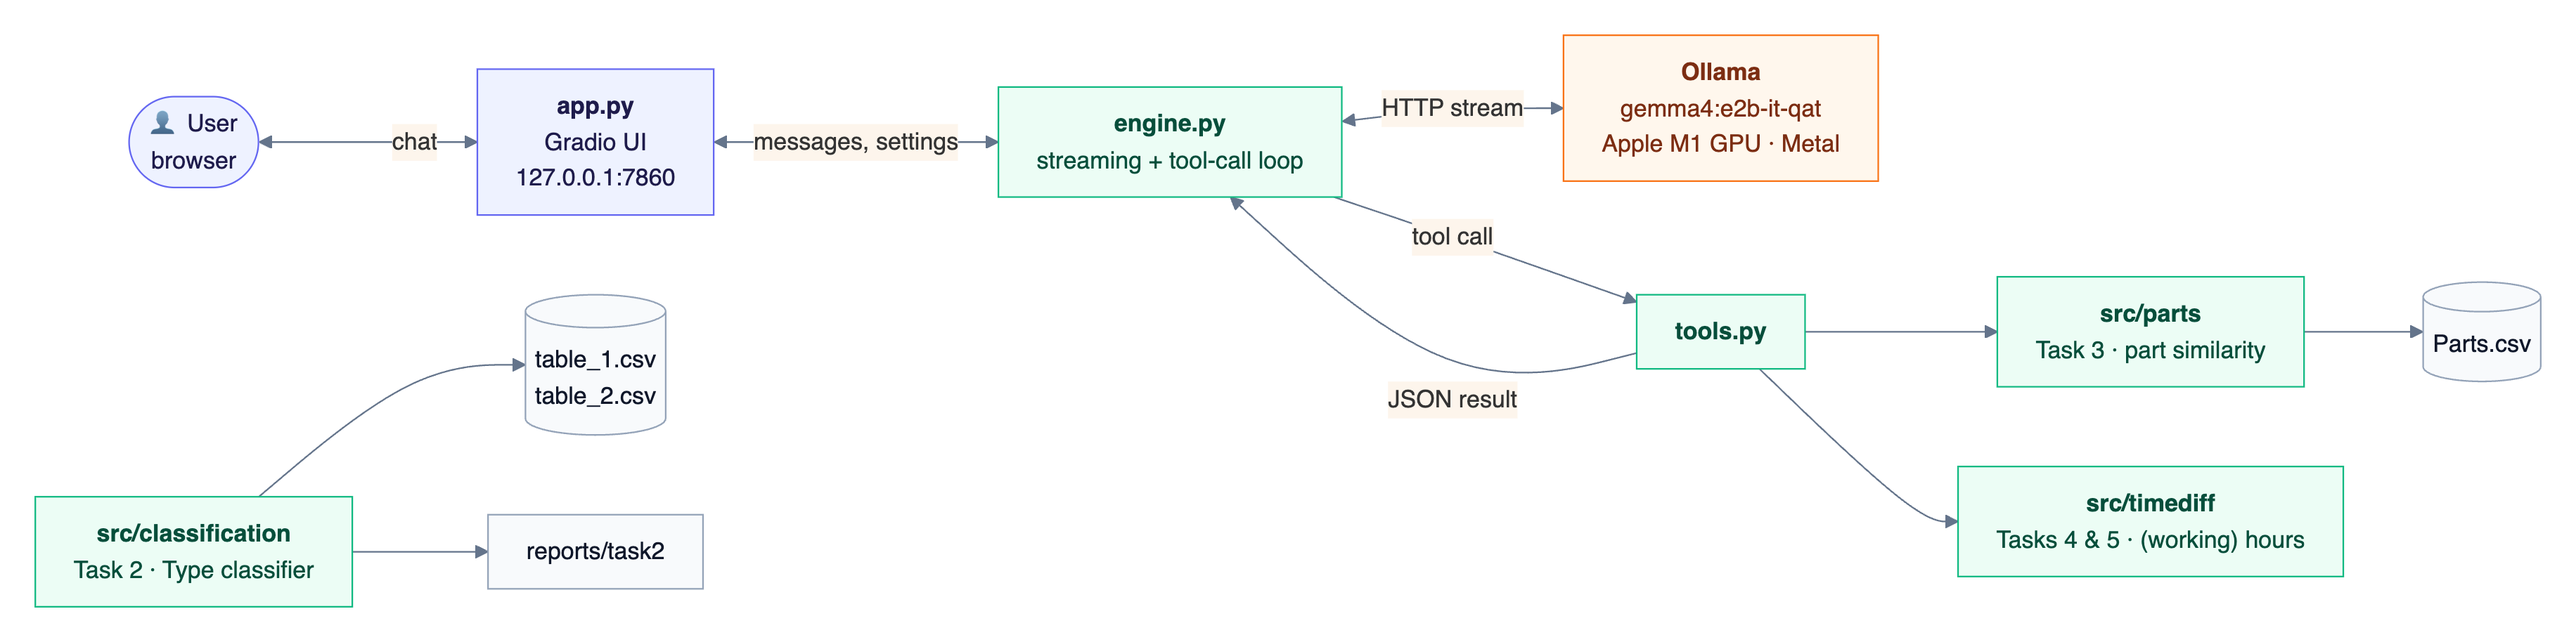
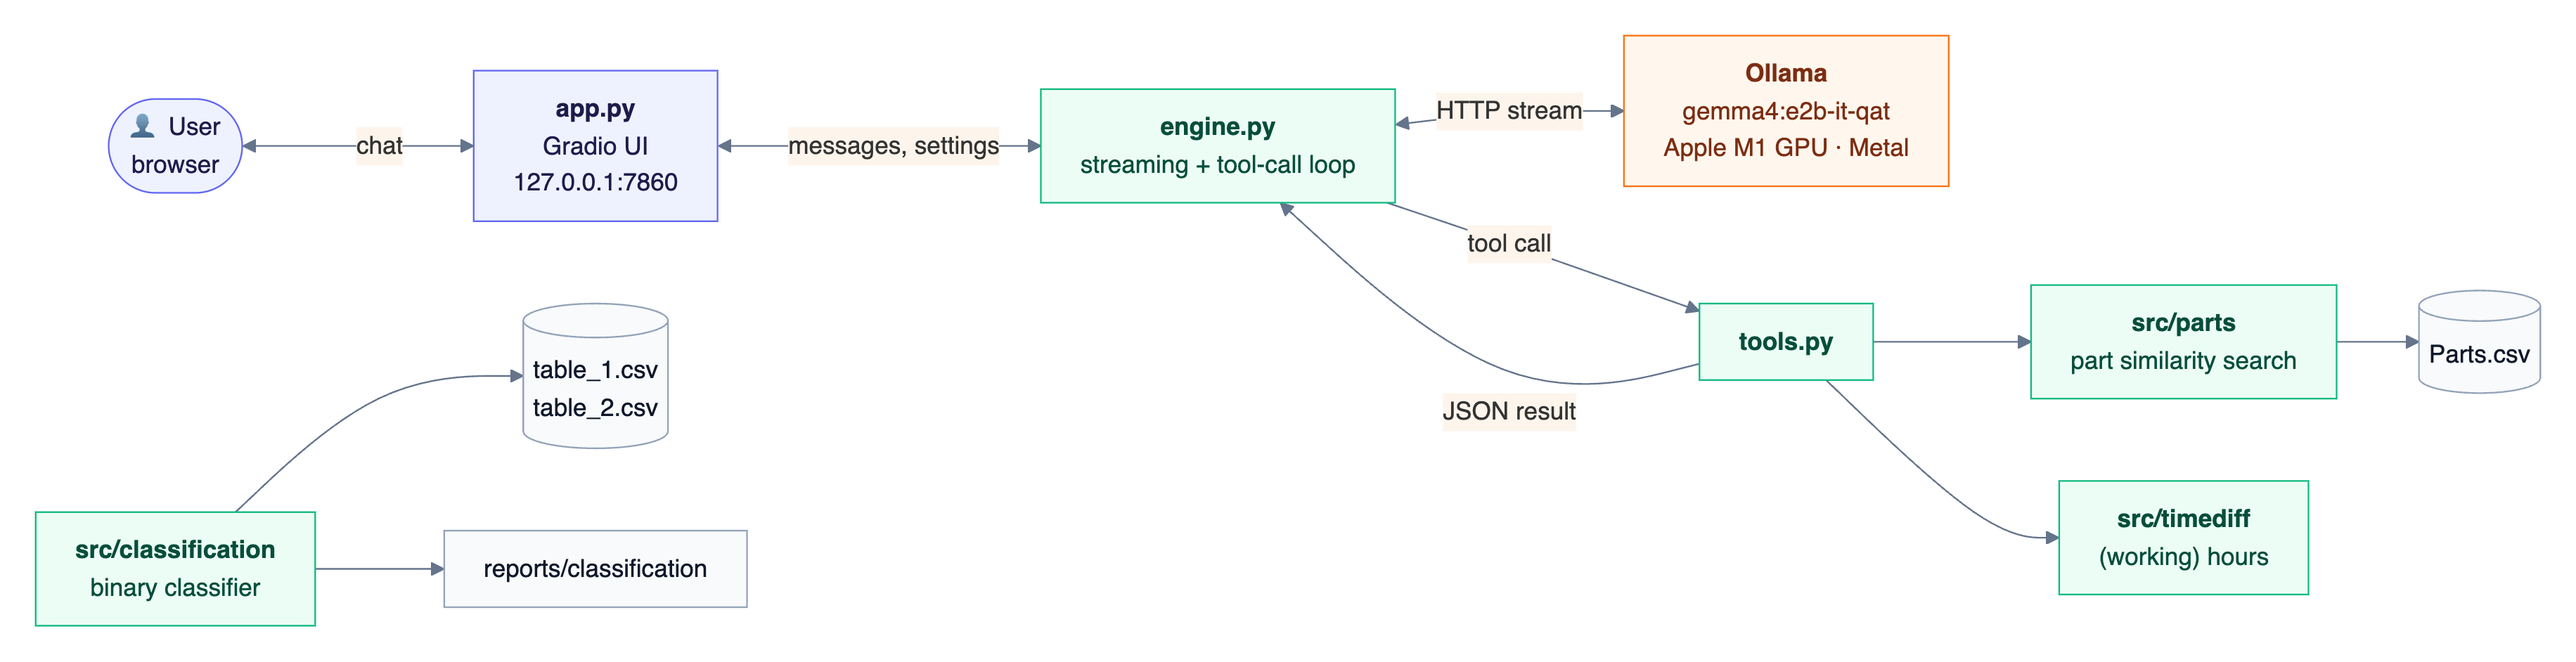
Generalize project: drop task numbering from code, docs and paths
- reports/task2 -> reports/classification, reports/task3 -> reports/parts
- diagrams renamed to classification-pipeline / parts-pipeline
- docs and README describe components instead of numbered tasks
- stop tracking task-description.txt (kept locally, ignored)

diff --git a/src/classification/train.py b/src/classification/train.py
@@ -1,7 +1,7 @@
-"""Train and evaluate classifiers for the "Type" column (Task 2).
+"""Train and evaluate classifiers for the "Type" column.
 
 Run:  python -m src.classification.train
-Writes metrics and figures to reports/task2/.
+Writes metrics and figures to reports/classification/.
 """
 
 from __future__ import annotations
@@ -36,7 +36,7 @@ from sklearn.preprocessing import OneHotEncoder, StandardScaler
 
 from .data import CATEGORICAL, NUMERIC, load_dataset
 
-OUT_DIR = Path(__file__).resolve().parents[2] / "reports" / "task2"
+OUT_DIR = Path(__file__).resolve().parents[2] / "reports" / "classification"
 SEED = 42
 
 
@@ -180,7 +180,7 @@ def main() -> None:
     axes[1].barh(importance.feature[::-1], importance["mean"][::-1], xerr=importance["std"][::-1])
     axes[1].set(title=f"Permutation importance ({best_name})", xlabel="Drop in average precision")
     fig.tight_layout()
-    fig.savefig(OUT_DIR / "task2_results.png", dpi=120)
+    fig.savefig(OUT_DIR / "results.png", dpi=120)
 
     (OUT_DIR / "metrics.json").write_text(
         json.dumps(
@@ -194,7 +194,7 @@ def main() -> None:
             indent=2,
         )
     )
-    print(f"\nWrote {OUT_DIR / 'metrics.json'} and task2_results.png")
+    print(f"\nWrote {OUT_DIR / 'metrics.json'} and results.png")
 
 
 if __name__ == "__main__":

diff --git a/src/timediff/timediff.py b/src/timediff/timediff.py
@@ -1,4 +1,4 @@
-"""Task 4 & 5: hour differences between timestamps of the form ``2017/05/13 12:00``."""
+"""Hour differences between timestamps of the form ``2017/05/13 12:00``."""
 
 from __future__ import annotations
 
@@ -29,7 +29,7 @@ def _round_hours(seconds: float) -> int:
 
 
 def hours_between(start: str | datetime, end: str | datetime) -> int:
-    """Task 4: rounded number of full hours between two timestamps.
+    """Rounded number of full hours between two timestamps.
 
     The order of the arguments does not matter; the absolute difference is returned.
 
@@ -72,7 +72,7 @@ def business_hours_between(
     workday_end: time = WORKDAY_END,
     holidays: Iterable[date] = (),
 ) -> int:
-    """Task 5: like :func:`hours_between`, but only counting 09:00–17:00 on weekdays.
+    """Like :func:`hours_between`, but only counting 09:00–17:00 on weekdays.
 
     Optionally pass ``holidays`` (dates) to exclude public holidays as well.
 

diff --git a/src/parts/find_alternatives.py b/src/parts/find_alternatives.py
@@ -1,7 +1,7 @@
 """Write the 5 most similar alternatives for every part.
 
 Run:  python -m src.parts.find_alternatives [--k 5]
-Output: reports/task3/alternatives.csv (long format, one row per part/alternative)
+Output: reports/parts/alternatives.csv (long format, one row per part/alternative)
 """
 
 from __future__ import annotations
@@ -11,7 +11,7 @@ from pathlib import Path
 
 from .similarity import PartsSimilarity, load_parts
 
-OUT = Path(__file__).resolve().parents[2] / "reports" / "task3" / "alternatives.csv"
+OUT = Path(__file__).resolve().parents[2] / "reports" / "parts" / "alternatives.csv"
 
 
 def main() -> None:

diff --git a/tests/test_timediff.py b/tests/test_timediff.py
@@ -8,7 +8,7 @@ from src.timediff import business_hours_between, hours_between
 @pytest.mark.parametrize(
     "start, end, expected",
     [
-        ("2022/02/15 00:05", "2022/02/15 01:00", 1),  # example from the task
+        ("2022/02/15 00:05", "2022/02/15 01:00", 1),  # reference example
         ("2017/05/13 12:00", "2017/05/13 12:00", 0),
         ("2017/05/13 12:00", "2017/05/13 12:29", 0),
         ("2017/05/13 12:00", "2017/05/13 12:30", 1),  # half rounds up

diff --git a/src/parts/similarity.py b/src/parts/similarity.py
@@ -1,4 +1,4 @@
-"""Task 3: find alternative parts based on the DESCRIPTION column of Parts.csv.
+"""Find alternative parts based on the DESCRIPTION column of Parts.csv.
 
 Approach (hybrid lexical + numeric):
 1. Normalise descriptions (case, unit spelling, "5 X 20mm" vs "5x20mm", synonyms).

diff --git a/src/classification/data.py b/src/classification/data.py
@@ -1,4 +1,4 @@
-"""Load, clean and merge the two tables for the binary "Type" classification (Task 2)."""
+"""Load, clean and merge the two tables for the binary "Type" classification."""
 
 from __future__ import annotations
 

diff --git a/src/parts/eda.py b/src/parts/eda.py
@@ -1,4 +1,4 @@
-"""Descriptive analysis of Parts.csv (Task 3).  Run:  python -m src.parts.eda"""
+"""Descriptive analysis of Parts.csv.  Run:  python -m src.parts.eda"""
 
 from __future__ import annotations
 

diff --git a/app.py b/app.py
@@ -1,4 +1,4 @@
-"""Local LLM chatbot (Task 1).  Start with:  python app.py"""
+"""Local LLM chatbot.  Start with:  python app.py"""
 
 from __future__ import annotations
 

diff --git a/docs/DOCUMENTATION.md b/docs/DOCUMENTATION.md
@@ -1,7 +1,7 @@
 # Project Documentation
 
 A fully local, GPU-accelerated LLM chatbot that can look up alternative parts and compute working hours.
-The project also includes a binary classifier and the data analysis behind each task.
+The project also includes a binary classifier and the data analysis behind each component.
 
 ![Chatbot answering a parts question with a tool call](images/chatbot.png)
 
@@ -10,10 +10,10 @@ The project also includes a binary classifier and the data analysis behind each 
 2. [System architecture](#2-system-architecture)
 3. [Machine and performance](#3-machine-and-performance)
 4. [Setup and usage](#4-setup-and-usage)
-5. [Task 1: Chatbot](#5-task-1-chatbot)
-6. [Task 2: Classification of `Type`](#6-task-2-classification-of-type)
-7. [Task 3: Alternative parts](#7-task-3-alternative-parts)
-8. [Tasks 4 & 5: Hour differences](#8-tasks-4--5-hour-differences)
+5. [Chatbot](#5-chatbot)
+6. [Binary classification](#6-binary-classification)
+7. [Part similarity search](#7-part-similarity-search)
+8. [Time calculations](#8-time-calculations)
 9. [Testing and quality](#9-testing-and-quality)
 10. [Project structure](#10-project-structure)
 11. [Limitations and next steps](#11-limitations-and-next-steps)
@@ -22,13 +22,12 @@ The project also includes a binary classifier and the data analysis behind each 
 
 ## 1. Overview
 
-| Task | Deliverable | Code |
+| Component | What it does | Code |
 |---|---|---|
-| 1 | Local LLM chatbot with a Gradio UI, running on the GPU via Ollama | `app.py`, `src/chatbot/` |
-| 2 | Binary classifier for `Type` from two joined tables | `src/classification/` |
-| 3 | Descriptive analysis + 5 alternatives per part, integrated into the chatbot | `src/parts/` |
-| 4 | Rounded hour difference between two timestamps | `src/timediff/` |
-| 5 | Same, counting only 09:00–17:00 on weekdays | `src/timediff/` |
+| Chatbot | Local LLM chatbot with a Gradio UI, running on the GPU via Ollama | `app.py`, `src/chatbot/` |
+| Binary classification | Predicts `Type` from two tables joined on `ID` | `src/classification/` |
+| Part similarity search | Descriptive analysis plus 5 alternatives per part, available in the chatbot | `src/parts/` |
+| Time calculations | Rounded hours between two timestamps, in total or working hours only (09:00–17:00, weekdays) | `src/timediff/` |
 
 **Design principles**
 - **Local first.** The model, the data and the UI all stay on the machine. The app binds to `127.0.0.1` and the git repository has no remote.
@@ -47,9 +46,9 @@ The project also includes a binary classifier and the data analysis behind each 
 | `app.py` | Gradio UI: chat panel, settings, examples, export. Holds no business logic. |
 | `src/chatbot/engine.py` | Streams model output and runs the **tool-call loop** (up to 4 rounds). Does not depend on any UI. |
 | `src/chatbot/tools.py` | Plain Python functions exposed to the LLM. Their docstrings become the tool schemas. |
-| `src/parts/` | Task 3: similarity index, EDA, evaluation, batch export. |
-| `src/timediff/` | Tasks 4 & 5: hour calculations. |
-| `src/classification/` | Task 2: data cleaning and joining, model training and evaluation. |
+| `src/parts/` | Part similarity: index, EDA, evaluation, batch export. |
+| `src/timediff/` | Hour and working-hour calculations. |
+| `src/classification/` | Classification: data cleaning and joining, model training and evaluation. |
 | Ollama | Local model server (llama.cpp + Apple Metal) on `localhost:11434`. |
 
 ### How one chat request flows
@@ -96,7 +95,7 @@ pip install -r requirements.txt
 # 2. Local LLM runtime (macOS: `brew install ollama` or the Ollama app)
 ollama serve &                        # skip if the Ollama app is running
 ollama pull gemma4:e2b-it-qat         # chat model
-ollama pull embeddinggemma-2:270m     # optional, only for the embedding comparison in Task 3
+ollama pull embeddinggemma-2:270m     # optional, only for the embedding comparison
 
 # 3. Run
 python app.py                         # chatbot -> http://127.0.0.1:7860
@@ -105,15 +104,15 @@ python app.py                         # chatbot -> http://127.0.0.1:7860
 | Command | Purpose | Output |
 |---|---|---|
 | `python app.py` | Start the chatbot | http://127.0.0.1:7860 |
-| `python -m src.classification.train` | Train and evaluate Task 2 models (~1 min) | `reports/task2/` |
-| `python -m src.parts.eda` | Task 3 descriptive analysis | stdout (`reports/task3/eda.txt`) |
-| `python -m src.parts.find_alternatives` | 5 alternatives for every part | `reports/task3/alternatives.csv` |
-| `python -m src.parts.evaluate --embeddings` | Compare similarity variants | stdout (`reports/task3/evaluation.txt`) |
+| `python -m src.classification.train` | Train and evaluate the classifiers (~1 min) | `reports/classification/` |
+| `python -m src.parts.eda` | Descriptive analysis of the parts data | stdout (`reports/parts/eda.txt`) |
+| `python -m src.parts.find_alternatives` | 5 alternatives for every part | `reports/parts/alternatives.csv` |
+| `python -m src.parts.evaluate --embeddings` | Compare similarity variants | stdout (`reports/parts/evaluation.txt`) |
 | `pytest` | Run all tests | 33 tests |
 
 ---
 
-## 5. Task 1: Chatbot
+## 5. Chatbot
 
 ### 5.1 User interface
 
@@ -138,7 +137,7 @@ Google Gemma 4 "E2B": instruction-tuned, with quantisation-aware training (QAT) 
 | Criterion | Why it fits |
 |---|---|
 | **Memory** | ~1.7 GB on the GPU, which leaves room for macOS and the browser on an 8 GB machine. 7–8 B models need ~5 GB and would swap. |
-| **Tool calling** | Native `tools` capability in Ollama. In testing it reliably picked the right tool with correct arguments. Tool calling is what makes the Task 3 integration possible. |
+| **Tool calling** | Native `tools` capability in Ollama. In testing it reliably picked the right tool with correct arguments. Tool calling is what connects the chatbot to the part search. |
 | **Quality per GB** | QAT keeps 4-bit quality close to full precision, better than post-hoc quantisation of a model of the same size. |
 | **Speed** | ~30 tok/s on the M1 GPU, which feels interactive. |
 | **Licence** | Apache 2.0. |
@@ -166,14 +165,16 @@ Rejected alternatives:
 
 ### 5.4 Version control
 The repository was created locally with `git init` on branch `main`, with **no remote**.
-Work was committed in small steps (data → Tasks 4/5 → Task 2 → Task 3 → engine → UI → tests → docs), and `git log` shows the history.
+Work was committed in small steps (data → time calculations → classification → part search → engine → UI → tests → docs), and `git log` shows the history.
 `.gitignore` excludes the virtualenv and caches.
 
 ---
 
-## 6. Task 2: Classification of `Type`
+## 6. Binary classification
 
-![Task 2 pipeline](images/task2-pipeline.png)
+Goal: predict the binary column `Type` from two tables that share the key `ID`.
+
+![Classification pipeline](images/classification-pipeline.png)
 
 ### 6.1 Data findings
 | # | Finding | Handling |
@@ -192,7 +193,7 @@ Work was committed in small steps (data → Tasks 4/5 → Task 2 → Task 3 → 
 | **Random forest ✔** | **0.932** | **0.996** | **0.967** | **0.932** | **0.936** |
 | Hist. gradient boosting | 0.910 | 0.976 | 0.919 | 0.863 | 0.898 |
 
-![Precision-recall curves and feature importance](../reports/task2/task2_results.png)
+![Precision-recall curves and feature importance](../reports/classification/results.png)
 
 - The **random forest** found 48 of 55 `n` cases (recall 0.87) with **zero false alarms** (precision 1.00), for 99.1% accuracy.
 - **`VOL` is the dominant feature:** the share of `n` is 42% when `VOL = f`, against 1.6% when `VOL = t`. `TRE`, `VBNM`, `UKL` and `NKJUD` follow.
@@ -200,7 +201,9 @@ Work was committed in small steps (data → Tasks 4/5 → Task 2 → Task 3 → 
 
 ---
 
-## 7. Task 3: Alternative parts
+## 7. Part similarity search
+
+Goal: for every part in `Parts.csv`, find the 5 most similar alternatives based on its `DESCRIPTION`.
 
 ### 7.1 Descriptive analysis
 - 998 parts (A1–A998) with 32 columns. Every structured column has 12–89% missing values.
@@ -218,7 +221,7 @@ Work was committed in small steps (data → Tasks 4/5 → Task 2 → Task 3 → 
 
 ### 7.3 Solution
 
-![Task 3 pipeline](images/task3-pipeline.png)
+![Part similarity pipeline](images/parts-pipeline.png)
 
 1. **Normalise** the text (units, dimensions, synonyms).
 2. **TF-IDF** on word 1–2-grams **and** character 3–5-grams, then cosine similarity.
@@ -260,7 +263,7 @@ Example prompts:
 
 ---
 
-## 8. Tasks 4 & 5: Hour differences
+## 8. Time calculations
 
 ![Hour difference flow](images/timediff-flow.png)
 
@@ -276,7 +279,7 @@ business_hours_between("2022/02/18 16:00", "2022/02/21 10:00")   # 2  (Fri 16–
 | Input | `YYYY/MM/DD HH:MM`; invalid input raises a clear `ValueError` |
 | Argument order | Irrelevant; the absolute difference is returned |
 | Rounding | To whole hours, **half up** (`ROUND_HALF_UP`). Python's `round()` would turn 2.5 into 2. |
-| Working hours (Task 5) | Each day is clipped to 09:00–17:00, weekends are skipped, and the overlaps are summed *before* rounding |
+| Working hours | Each day is clipped to 09:00–17:00, weekends are skipped, and the overlaps are summed *before* rounding |
 | Extras | Configurable working window and an optional `holidays` list |
 
 These functions are also available as chatbot tools, e.g. *"How many working hours are between …?"*.
@@ -287,7 +290,7 @@ These functions are also available as chatbot tools, e.g. *"How many working hou
 
 | Test file | Covers |
 |---|---|
-| `tests/test_timediff.py` | 21 cases: task example, rounding edges, reversed order, overnight, weekends, full week, leap day, holidays, invalid input |
+| `tests/test_timediff.py` | 21 cases: reference example, rounding edges, reversed order, overnight, weekends, full week, leap day, holidays, invalid input |
 | `tests/test_parts.py` | normalisation, current parsing, ranking order, self-exclusion, parts without a description, free-text search |
 | `tests/test_engine.py` | tool-call loop and error reporting, using a fake Ollama client |
 | `tests/test_app.py` | Gradio handler: streaming, tool messages, empty input |
@@ -301,20 +304,19 @@ I also tested the running app end to end through `gradio_client` and in a real b
 
 ```
 .
-├── app.py                      # Gradio chatbot (Task 1)
+├── app.py                      # Gradio chatbot
 ├── requirements.txt            # pinned dependencies
-├── task-description.txt
 ├── data/                       # Parts.csv, table_1.csv, table_2.csv
 ├── src/
 │   ├── chatbot/
 │   │   ├── engine.py           # streaming + tool-call loop (UI-independent)
 │   │   └── tools.py            # functions exposed to the LLM
-│   ├── classification/         # Task 2: data.py, train.py
-│   ├── parts/                  # Task 3: similarity.py, eda.py, evaluate.py, find_alternatives.py
-│   └── timediff/               # Tasks 4 & 5
+│   ├── classification/         # data.py, train.py
+│   ├── parts/                  # similarity.py, eda.py, evaluate.py, find_alternatives.py
+│   └── timediff/               # hour calculations
 ├── reports/
-│   ├── task2/                  # metrics.json, task2_results.png
-│   └── task3/                  # alternatives.csv, eda.txt, evaluation.txt
+│   ├── classification/         # metrics.json, results.png
+│   └── parts/                  # alternatives.csv, eda.txt, evaluation.txt
 ├── tests/                      # 33 pytest tests
 └── docs/
     ├── DOCUMENTATION.md        # this file
@@ -329,12 +331,12 @@ I also tested the running app end to end through `gradio_client` and in a real b
 - **Chatbot:**
   - A 2 B-effective model can still phrase things imperfectly, which is why the facts come from tools.
   - Retrieval over documents (RAG) and conversation memory across sessions could be added.
-- **Task 2:**
+- **Classification:**
   - hyperparameter search;
   - repeated CV for confidence intervals;
   - probability calibration if the scores are used as risks.
-- **Task 3:**
+- **Part search:**
   - user-selectable hard filters (same mounting, voltage ≥ original);
   - parse voltage and breaking capacity;
   - a small set of pairs labelled by experts, to tune the weights properly.
-- **Tasks 4/5:** time zones, DST, and regional holiday calendars (e.g. the `holidays` package).
+- **Time calculations:** time zones, DST, and regional holiday calendars (e.g. the `holidays` package).

diff --git a/README.md b/README.md
@@ -22,7 +22,7 @@
   - compute (working) hours between two timestamps.
 - **Transparent.** Every tool call appears in the chat with its arguments and raw result.
 - **Easy to use.** Streaming answers, example prompts, model picker, reasoning mode, Markdown export.
-- **Data science tasks included:**
+- **Data science modules included:**
   - binary classifier (F1 0.93 on the minority class);
   - part-similarity search with a descriptive analysis.
 
@@ -56,13 +56,13 @@ python app.py        # → http://127.0.0.1:7860
 
 ## 🧩 What's inside
 
-| Task | Description | Run |
+| Component | Description | Run |
 |---|---|---|
-| **1 · Chatbot** | Local LLM chat app with tools | `python app.py` |
-| **2 · Classification** | Predict `Type` from two joined tables | `python -m src.classification.train` |
-| **3 · Similar parts** | 5 alternatives per part from `DESCRIPTION` | `python -m src.parts.find_alternatives` |
-| **4 · Hours** | Rounded hours between two timestamps | `from src.timediff import hours_between` |
-| **5 · Working hours** | Same, 09:00–17:00 on weekdays only | `from src.timediff import business_hours_between` |
+| **Chatbot** | Local LLM chat app with tools | `python app.py` |
+| **Classification** | Predict `Type` from two joined tables | `python -m src.classification.train` |
+| **Similar parts** | 5 alternatives per part from `DESCRIPTION` | `python -m src.parts.find_alternatives` |
+| **Hours** | Rounded hours between two timestamps | `from src.timediff import hours_between` |
+| **Working hours** | Same, 09:00–17:00 on weekdays only | `from src.timediff import business_hours_between` |
 
 ## 📊 Highlights
 
@@ -77,9 +77,9 @@ python app.py        # → http://127.0.0.1:7860
 ```
 app.py               Gradio chatbot
 src/chatbot/         chat engine + LLM tools
-src/classification/  Task 2
-src/parts/           Task 3
-src/timediff/        Tasks 4 & 5
+src/classification/  binary classifier
+src/parts/           part similarity search
+src/timediff/        (working) hours
 reports/             generated results
 tests/               pytest suite
 docs/                full documentation, diagrams, screenshots
@@ -97,4 +97,4 @@ The full write-up is in **[docs/DOCUMENTATION.md](docs/DOCUMENTATION.md)**. It c
 - the architecture and request flow;
 - the machine specs;
 - why this model and these packages were chosen;
-- the data findings, methods and evaluation for every task.
+- the data findings, methods and evaluation for every component.
